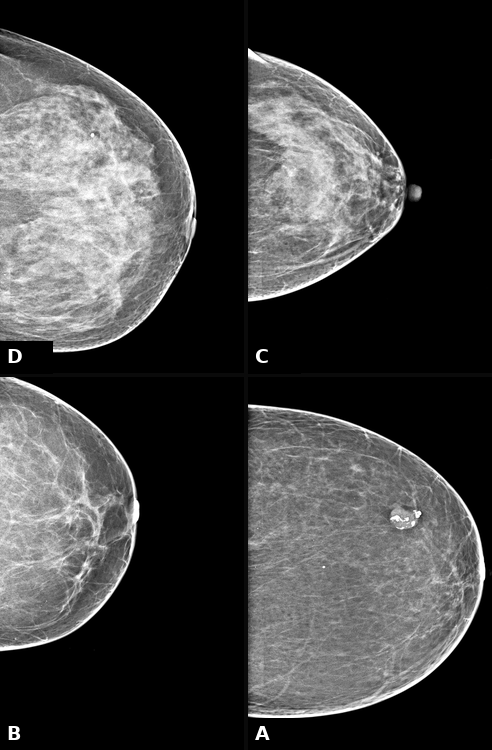
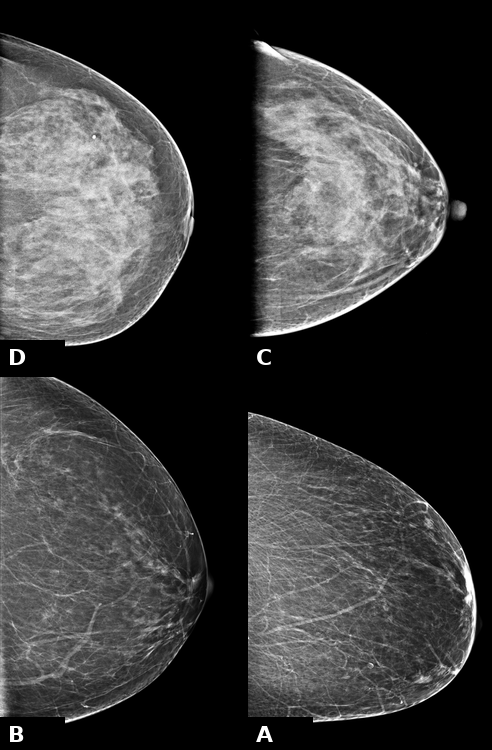
Update density reference image and footer contact section

diff --git a/frontend/src/styles.css b/frontend/src/styles.css
@@ -733,6 +733,14 @@ button:disabled {
   line-height: 1.25;
 }
 
+.density-view-note {
+  margin-top: 8px !important;
+  color: var(--muted);
+  font-size: 13px !important;
+  font-weight: 600;
+  line-height: 1.4 !important;
+}
+
 .density-content p {
   margin: 0;
   color: var(--muted);
@@ -892,7 +900,7 @@ button:disabled {
   gap: 18px;
   align-items: start;
   width: min(1120px, calc(100% - 40px));
-  margin: 0 auto 72px;
+  margin: 0 auto 48px;
 }
 
 .table-panel {
@@ -1018,6 +1026,100 @@ th {
   font-weight: 600;
 }
 
+.contact-footer {
+  margin-top: 0;
+  background: rgba(218, 243, 244, 0.42);
+  border-top: 1px solid var(--line);
+}
+
+.contact-footer-inner {
+  display: grid;
+  grid-template-columns: minmax(0, 1fr) minmax(0, 1fr);
+  gap: 40px 80px;
+  width: min(1120px, calc(100% - 40px));
+  margin: 0 auto;
+  padding: 44px 0 22px;
+}
+
+.contact-column h2 {
+  margin: 0 0 12px;
+  color: var(--teal);
+  font-size: 16px;
+  line-height: 1.4;
+}
+
+.contact-column p {
+  margin: 0;
+  color: var(--muted);
+  font-size: 14px;
+  line-height: 1.6;
+}
+
+.contact-column p + p {
+  margin-top: 8px;
+}
+
+.contact-column a {
+  color: var(--teal);
+  font-weight: 500;
+  text-decoration: none;
+}
+
+.contact-column a:hover,
+.contact-column a:focus-visible {
+  text-decoration: underline;
+}
+
+.contact-column-right {
+  text-align: right;
+}
+
+.social-links {
+  display: flex;
+  grid-column: 1 / -1;
+  justify-content: center;
+  gap: 14px;
+}
+
+.social-links a {
+  display: inline-flex;
+  align-items: center;
+  justify-content: center;
+  width: 36px;
+  height: 36px;
+  border-radius: 50%;
+  border: 1px solid var(--line);
+  background: rgba(218, 243, 244, 0.38);
+  color: var(--teal);
+  transition:
+    background 160ms ease,
+    color 160ms ease,
+    transform 160ms ease;
+}
+
+.social-links a:hover,
+.social-links a:focus-visible {
+  border-color: var(--teal);
+  background: rgba(218, 243, 244, 0.74);
+  color: #0e6f75;
+  outline: none;
+  transform: translateY(-1px);
+}
+
+.footer-rule {
+  grid-column: 1 / -1;
+  height: 1px;
+  background: rgba(94, 109, 112, 0.2);
+}
+
+.footer-copyright {
+  grid-column: 1 / -1;
+  margin: -12px 0 0;
+  color: rgba(94, 109, 112, 0.72);
+  font-size: 12px;
+  text-align: center;
+}
+
 @media (max-width: 860px) {
   .hero,
   .upload-options,
@@ -1056,5 +1158,20 @@ th {
   .logo-strip img {
     max-width: 94px;
     height: 42px;
+  }
+
+  .contact-footer-inner {
+    grid-template-columns: 1fr;
+    gap: 28px;
+    padding-top: 34px;
+  }
+
+  .contact-column,
+  .contact-column-right {
+    text-align: left;
+  }
+
+  .social-links {
+    justify-content: flex-start;
   }
 }

diff --git a/frontend/src/main.tsx b/frontend/src/main.tsx
@@ -6,12 +6,16 @@ import {
   Database,
   Download,
   Gauge,
+  Globe2,
   History,
   Images,
   Info,
+  Linkedin,
   Loader,
   Trophy,
+  Twitter,
   Upload,
+  Youtube,
 } from "lucide-react";
 import "./styles.css";
 
@@ -639,6 +643,7 @@ function App() {
         <div className="density-content">
           <div className="density-heading">
             <p className="eyebrow">Breast Density label guide</p>
+            <p className="density-view-note">Reference examples use left CC images.</p>
           </div>
           <div className="density-class-grid" aria-label="Breast density class descriptions">
             {densityClasses.map((densityClass) => (
@@ -757,6 +762,49 @@ function App() {
           )}
         </section>
       </section>
+
+      <footer className="contact-footer">
+        <div className="contact-footer-inner">
+          <div className="contact-column">
+            <h2>Address</h2>
+            <p>
+              AI Centre of Excellence in Healthcare<br />
+              Indian Institute of Science<br />
+              Seventh Floor, TCS Smart-X Hub<br />
+              Bengaluru, India - 560 012
+            </p>
+          </div>
+
+          <div className="contact-column contact-column-right">
+            <h2>Contact Information</h2>
+            <p>
+              Study: <a href="mailto:[email redacted]">[email redacted]</a>
+            </p>
+            <p>
+              General: <a href="mailto:[email redacted]">[email redacted]</a>
+            </p>
+            <p>Tel: (080) [phone redacted]&nbsp;&nbsp;|&nbsp;&nbsp;(080) [phone redacted]</p>
+          </div>
+
+          <nav className="social-links" aria-label="TANUH social links">
+            <a aria-label="TANUH website" href="https://www.tanuh.ai/" rel="noreferrer" target="_blank">
+              <Globe2 size={18} />
+            </a>
+            <a aria-label="TANUH LinkedIn" href="https://www.linkedin.com/company/tanuh-aicoe/" rel="noreferrer" target="_blank">
+              <Linkedin size={18} />
+            </a>
+            <a aria-label="TANUH X" href="https://x.com/TANUH_AI" rel="noreferrer" target="_blank">
+              <Twitter size={18} />
+            </a>
+            <a aria-label="TANUH YouTube" href="https://www.youtube.com/@TANUH-AI" rel="noreferrer" target="_blank">
+              <Youtube size={18} />
+            </a>
+          </nav>
+
+          <div className="footer-rule" />
+          <p className="footer-copyright">© 2025 by TANUH Foundation</p>
+        </div>
+      </footer>
     </main>
   );
 }